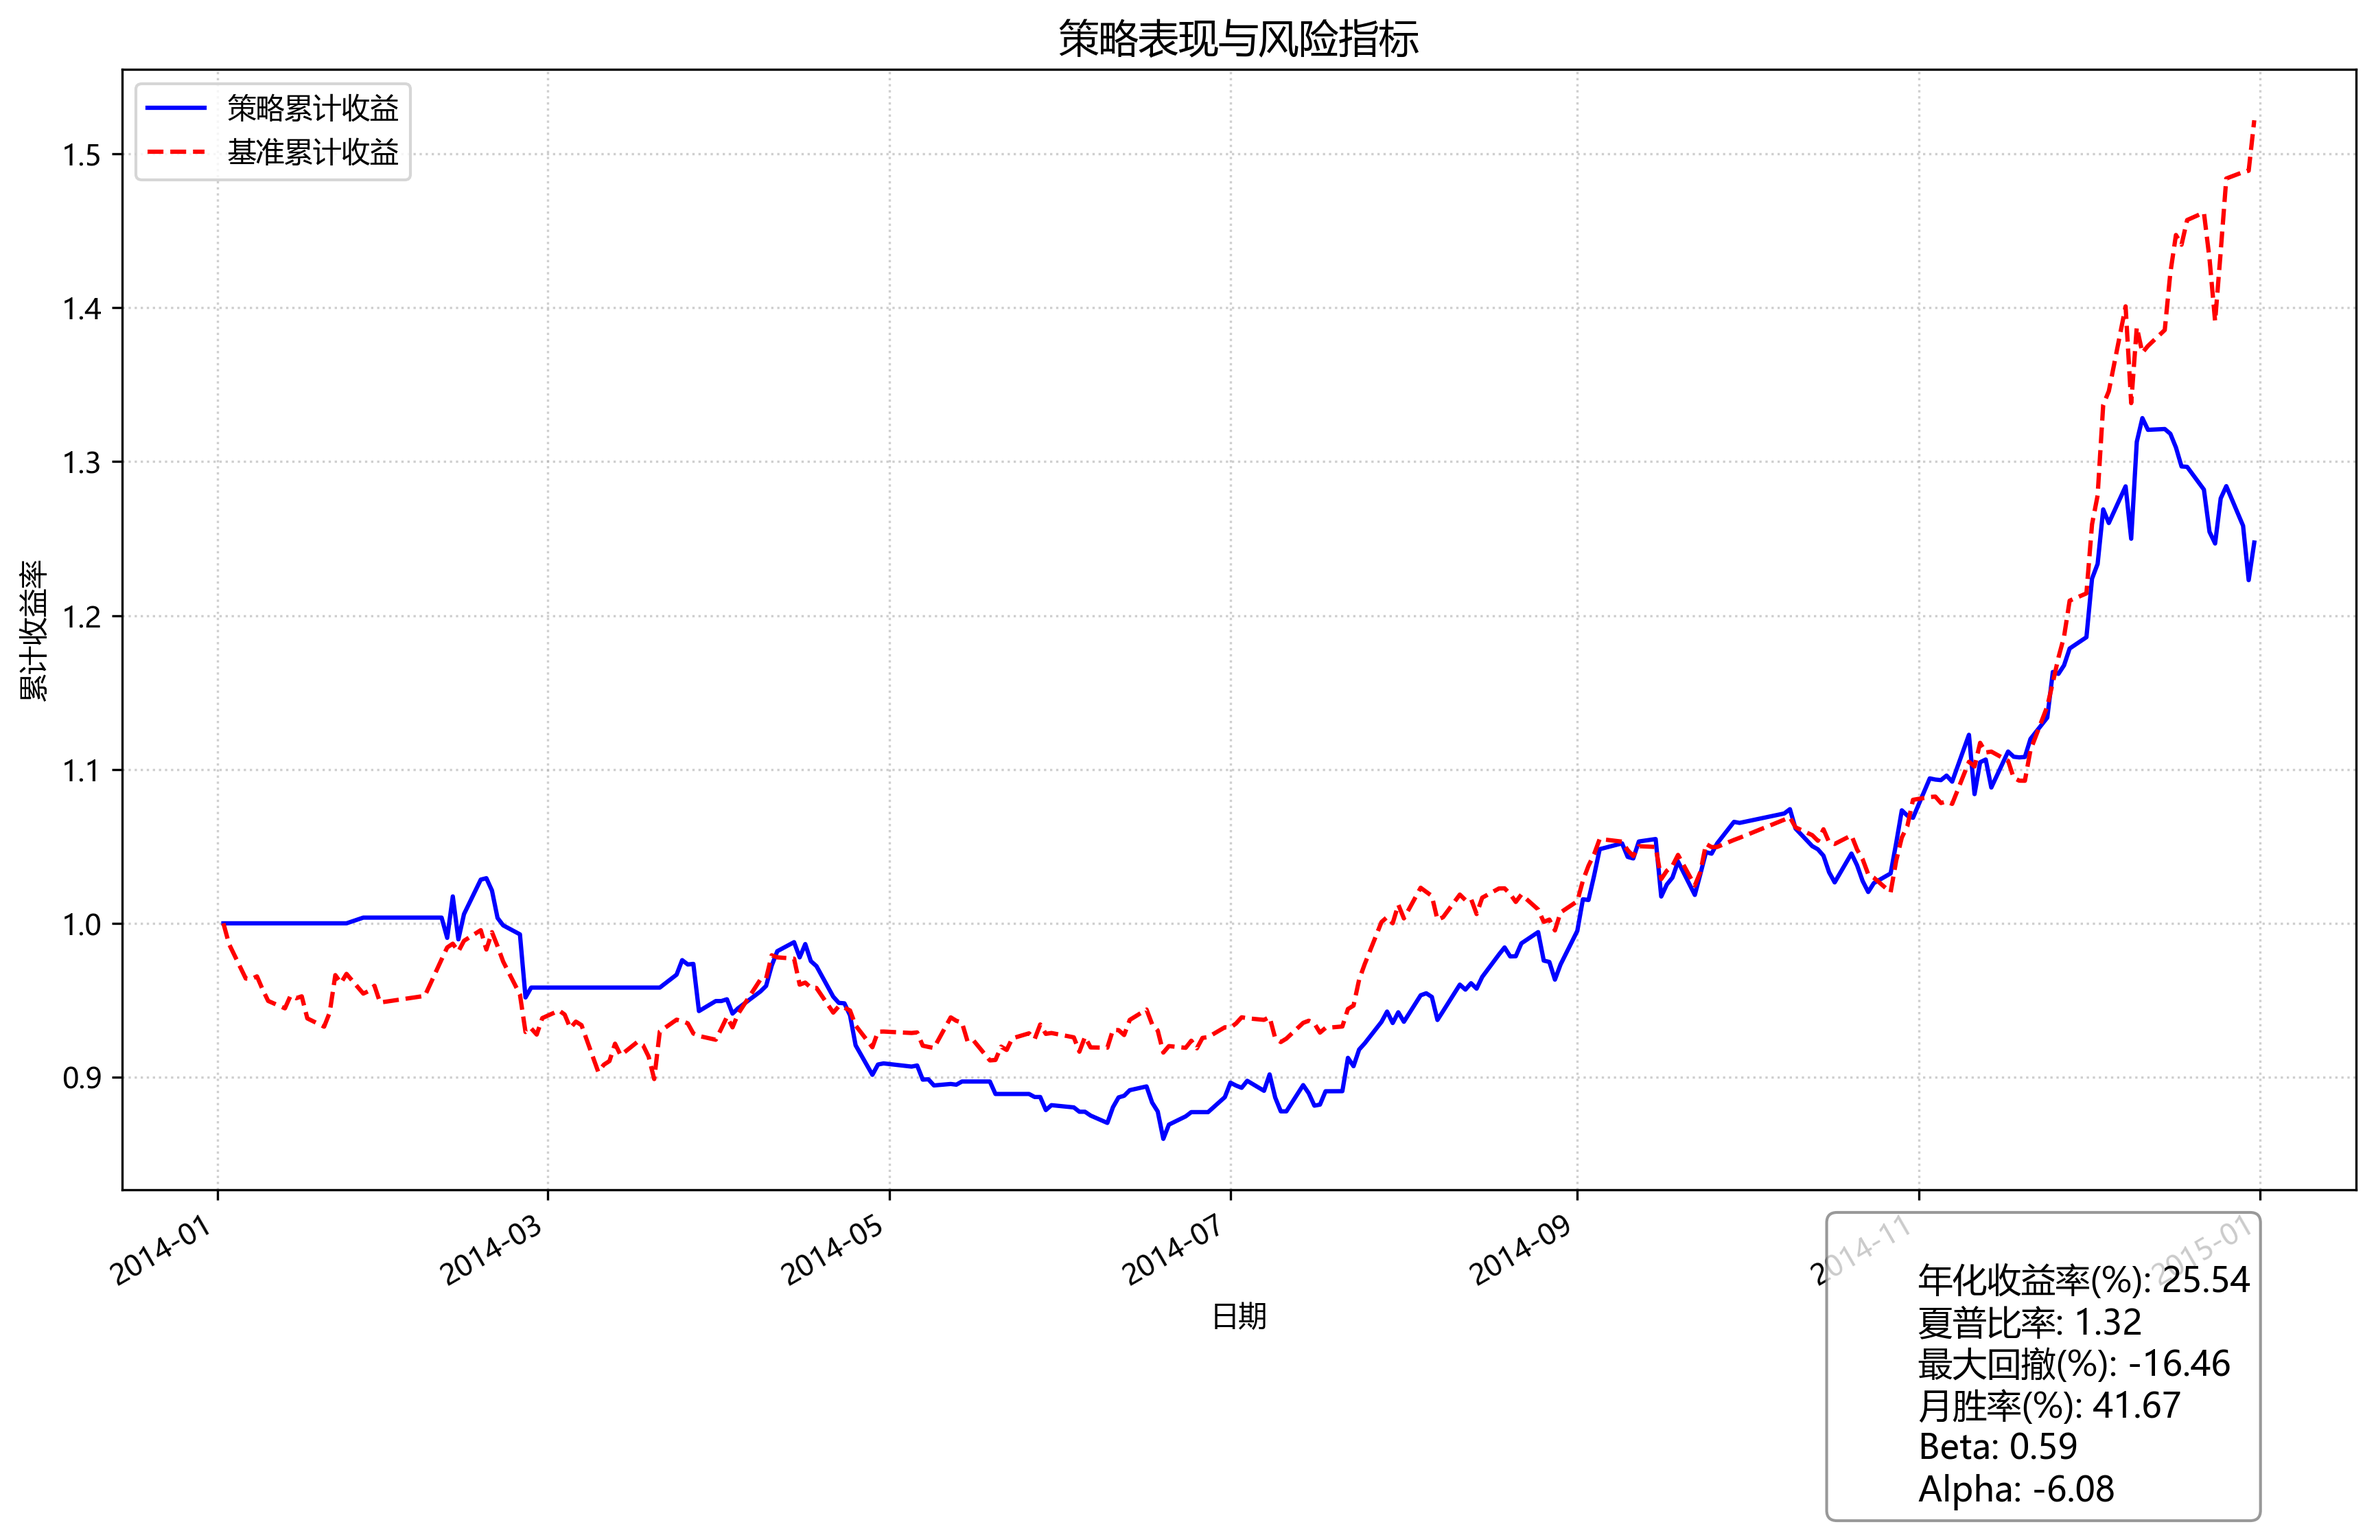
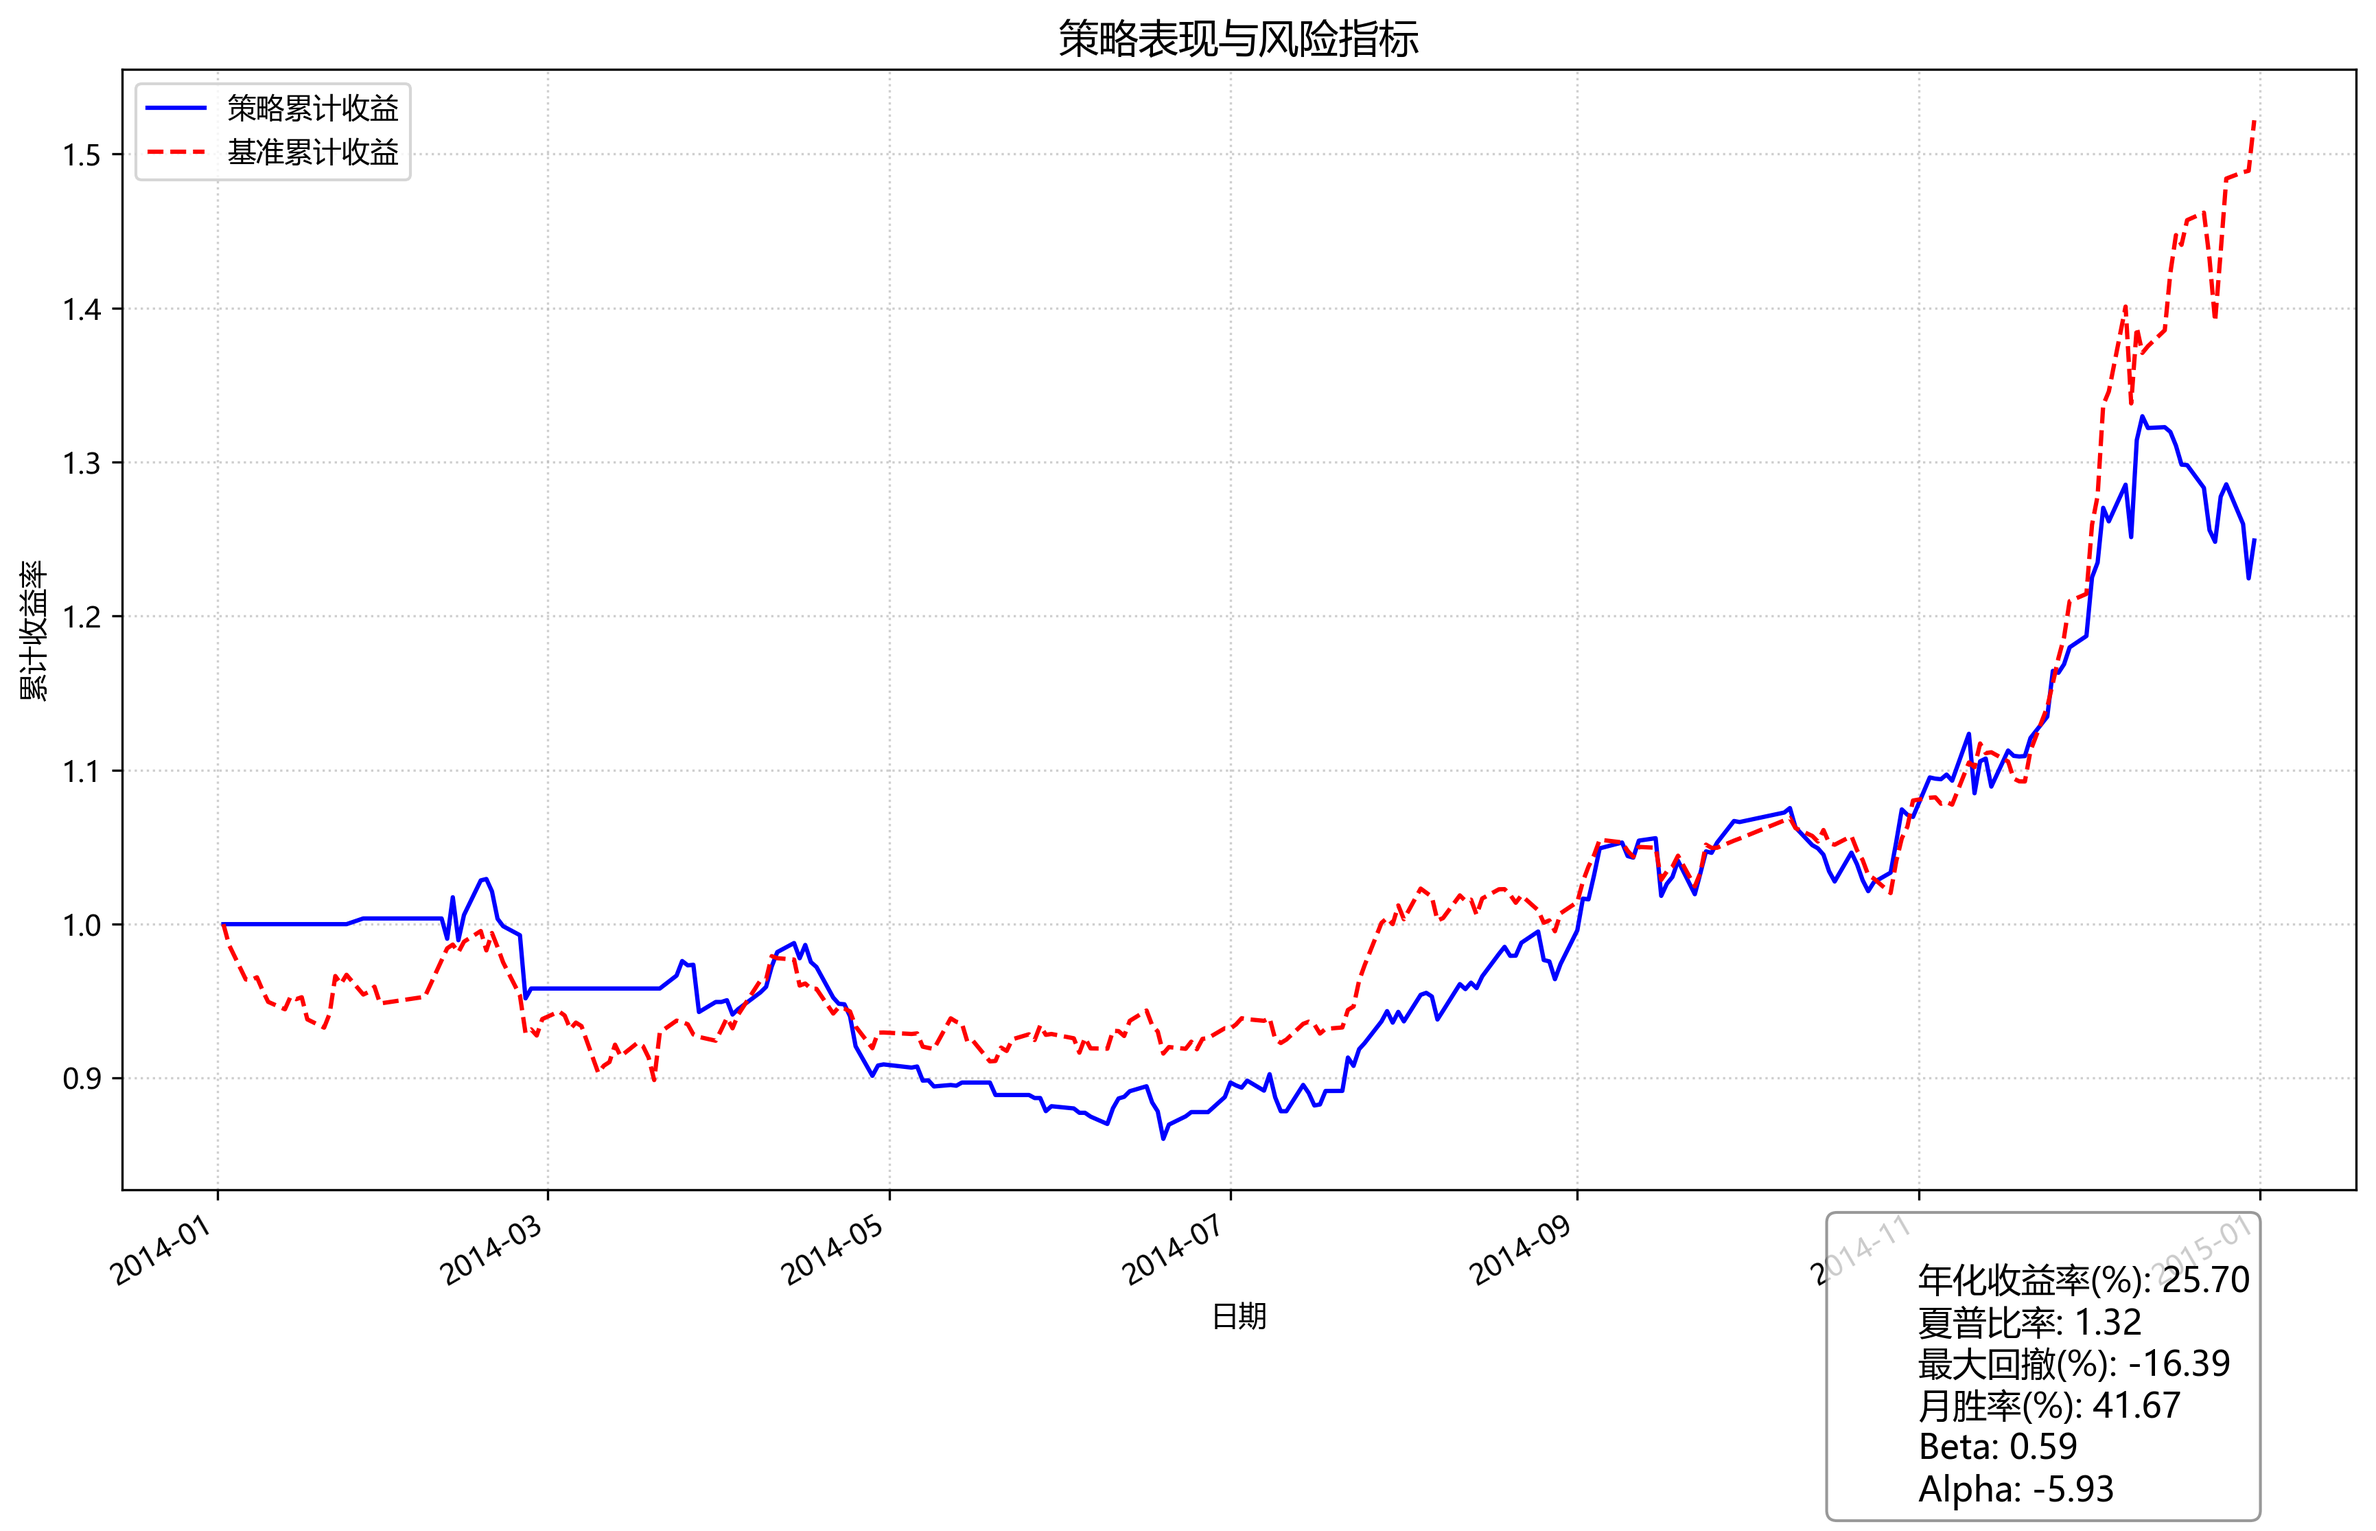
fix data. Parallel=False

diff --git a/simple_backtrade/data/adata_request.py b/simple_backtrade/data/adata_request.py
@@ -6,7 +6,7 @@ import numpy as np
 import datetime
 import math
 
-def update(start_year:int,end_year:int,cache_path="./stock_data",parallel=True,clean=False):
+def update(start_year:int,end_year:int,cache_path="./stock_data",parallel=False,clean=False):
     
     if clean==True or os.path.exists(os.path.join(cache_path,'all_finance_data.csv'))==False:
         request_finance_data(parallel=parallel)
